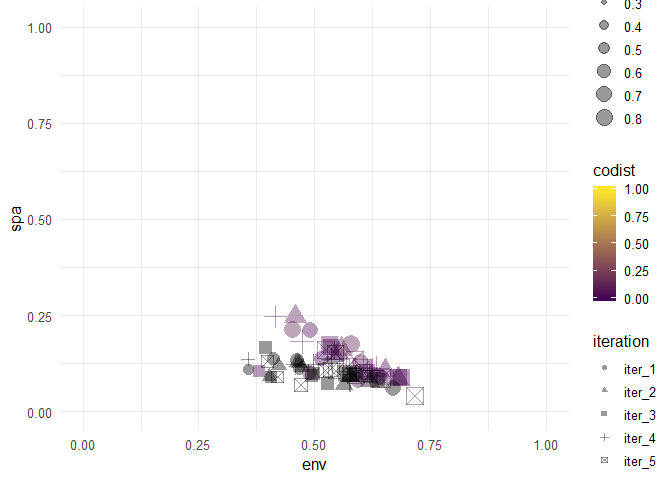
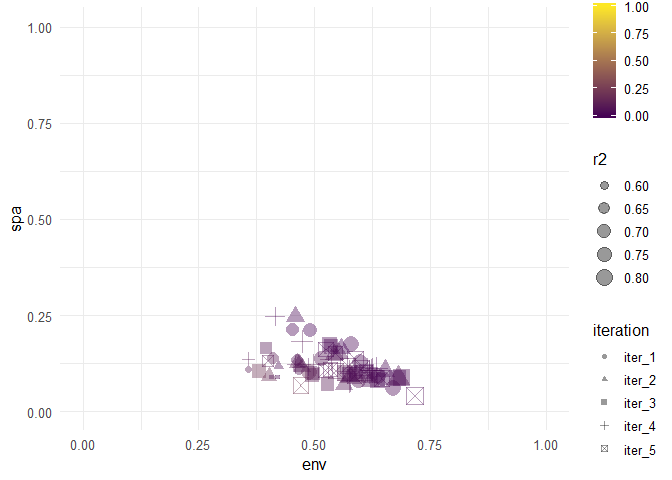
Update to visualization script.

Changed region(s): [[0.875, 0.3125, 1.0, 0.9688], [0.3438, 0.6562, 0.5938, 0.8438], [0.875, 0.0, 0.9688, 0.2812]]

diff --git a/aboutScripts-FAQ/ideasVisualizeVP.md b/aboutScripts-FAQ/ideasVisualizeVP.md
@@ -5,85 +5,62 @@ February 15, 2019
 
 We will use thi document to explore alternatives to visualizing the data. As an example I will use the data for scenario 1 Figure2a. The RDS file needed to run this markdown document needs to be in the same directory for this to work.
 
-``` r
-VPdata <- readRDS("VP Fig2a.RDS")
-```
+Plot data for Figure 2a
+-----------------------
 
-Understand the structure of the data
-------------------------------------
+Using the VP data for Figure 2a as an example, I am organizing the data and creating a function to automate plotting later on.
 
-Organize the list to calculate the actual variables needed and organize for plotting.
+Organize the list to calculate the actual variables needed and organize for plotting. The VP output has each of the variables in the variation partitioning analysis, and I've labeled them according to FigureA1. Setting the names to match figure A1 in the appendix makes it easier to calculate the partition for environment, space and co-distribution.
 
-``` r
-plotData <- list()
-
-for(i in 1:5){
-  
-  plotData[[i]] <- VPdata[[i]] %>% 
-    map(as_tibble) %>%
-    bind_cols() %>% 
-    set_names(c("c", "b", "a", "e", "f", "d", "g")) %>% 
-    transmute(env = a + f + 0.5 * d + 0.5 * g,
-              spa = b + e + 0.5 * d + 0.5 * g,
-              codist = g,
-              r2 = env + spa + codist,
-              iteration = names(VPdata[i]))
-}
-
-plotData %>% bind_rows() -> plotData
-str(plotData)
-```
-
-    ## Classes 'tbl_df', 'tbl' and 'data.frame':    75 obs. of  5 variables:
-    ##  $ env      : num  0.451 0.6 0.638 0.595 0.588 ...
-    ##  $ spa      : num  0.214 0.1269 0.0908 0.0821 0.103 ...
-    ##  $ codist   : num  0.1305 0.0933 0.0329 0.018 -0.0519 ...
-    ##  $ r2       : num  0.796 0.82 0.762 0.695 0.64 ...
-    ##  $ iteration: chr  "iter_1" "iter_1" "iter_1" "iter_1" ...
+![Figure 1A, variation partition](figA1.png)
 
 ``` r
-plotData %>%
-  arrange(., desc(r2)) %>% 
-  ggtern(aes(x = env, z = spa, y = codist)) +
-  geom_point(aes(size = r2, color = iteration), alpha = 0.4) +
-  scale_color_viridis_d() +
-  theme_minimal()
+VPdata %>% 
+  set_names(imap(., ~ paste0("iter_", .y))) -> VPdata
+
+VPdata[[1]] %>% 
+  map(as_tibble) %>%
+  bind_cols() %>% 
+  set_names(c("c", "b", "a", "e", "f", "d", "g")) %>% 
+  transmute(env = a + f + 0.5 * d + 0.5 * g,
+            env = ifelse(env < 0, 0, env),
+            spa = b + e + 0.5 * d + 0.5 * g,
+            spa = ifelse(spa < 0, 0, spa),
+            codist = c,
+            codist = ifelse(codist < 0, 0, codist),
+            r2 = env + spa + codist,
+            iteration = names(VPdata[1]))
 ```
 
-![](ideasVisualizeVP_files/figure-markdown_github/fig1-1.png)
+    ## # A tibble: 15 x 5
+    ##      env    spa codist    r2 iteration
+    ##    <dbl>  <dbl>  <dbl> <dbl> <chr>    
+    ##  1 0.451 0.214  0.0194 0.685 iter_1   
+    ##  2 0.600 0.127  0.0366 0.764 iter_1   
+    ##  3 0.638 0.0908 0.0367 0.766 iter_1   
+    ##  4 0.595 0.0821 0.0751 0.752 iter_1   
+    ##  5 0.588 0.103  0.0315 0.723 iter_1   
+    ##  6 0.463 0.133  0.0546 0.651 iter_1   
+    ##  7 0.468 0.111  0.0725 0.651 iter_1   
+    ##  8 0.356 0.109  0.102  0.568 iter_1   
+    ##  9 0.411 0.139  0.108  0.657 iter_1   
+    ## 10 0.489 0.102  0.175  0.765 iter_1   
+    ## 11 0.514 0.137  0.0722 0.723 iter_1   
+    ## 12 0.647 0.0852 0.0147 0.747 iter_1   
+    ## 13 0.670 0.0611 0.0256 0.757 iter_1   
+    ## 14 0.580 0.174  0.0206 0.775 iter_1   
+    ## 15 0.491 0.212  0      0.703 iter_1
 
-``` r
-plotData %>% 
-  arrange(desc(r2)) %>% 
-  ggplot(aes(env, spa)) +
-  geom_point(aes(colour = codist, size = r2, shape = iteration), alpha = 0.4) + 
-  scale_color_gradient(low = "#440154FF", high = "#FDE725FF", limits=c(0, 1), 
-                      na.value = "black") +
-  lims(x = c(0,1),
-       y = c(0,1)) +
-  theme_minimal()
-```
+Ternary plot for Figure 2a. I have included transparency to visualize greater density of points. Unlike the previous figures, the axes go from 0-100 instead of 0-1, so I still need to figure out how to change that.
+
+![](ideasVisualizeVP_files/figure-markdown_github/Figure2aTernary-1.png)
+
+Trying to find an alternative way to visualize our variation data.
 
 ![](ideasVisualizeVP_files/figure-markdown_github/alternPlot-1.png)
 
-why am I getting all these NAs?
+Test with another RDS file, scenario for Figure2d
 
-``` r
-plotData %>% 
-  select(codist)
-```
+![](ideasVisualizeVP_files/figure-markdown_github/Fig2dTest-1.png)
 
-    ## # A tibble: 75 x 1
-    ##     codist
-    ##      <dbl>
-    ##  1  0.131 
-    ##  2  0.0933
-    ##  3  0.0329
-    ##  4  0.0180
-    ##  5 -0.0519
-    ##  6 -0.0358
-    ##  7 -0.0960
-    ##  8 -0.0287
-    ##  9 -0.0309
-    ## 10  0.0410
-    ## # ... with 65 more rows
+![](ideasVisualizeVP_files/figure-markdown_github/unnamed-chunk-1-1.png)
